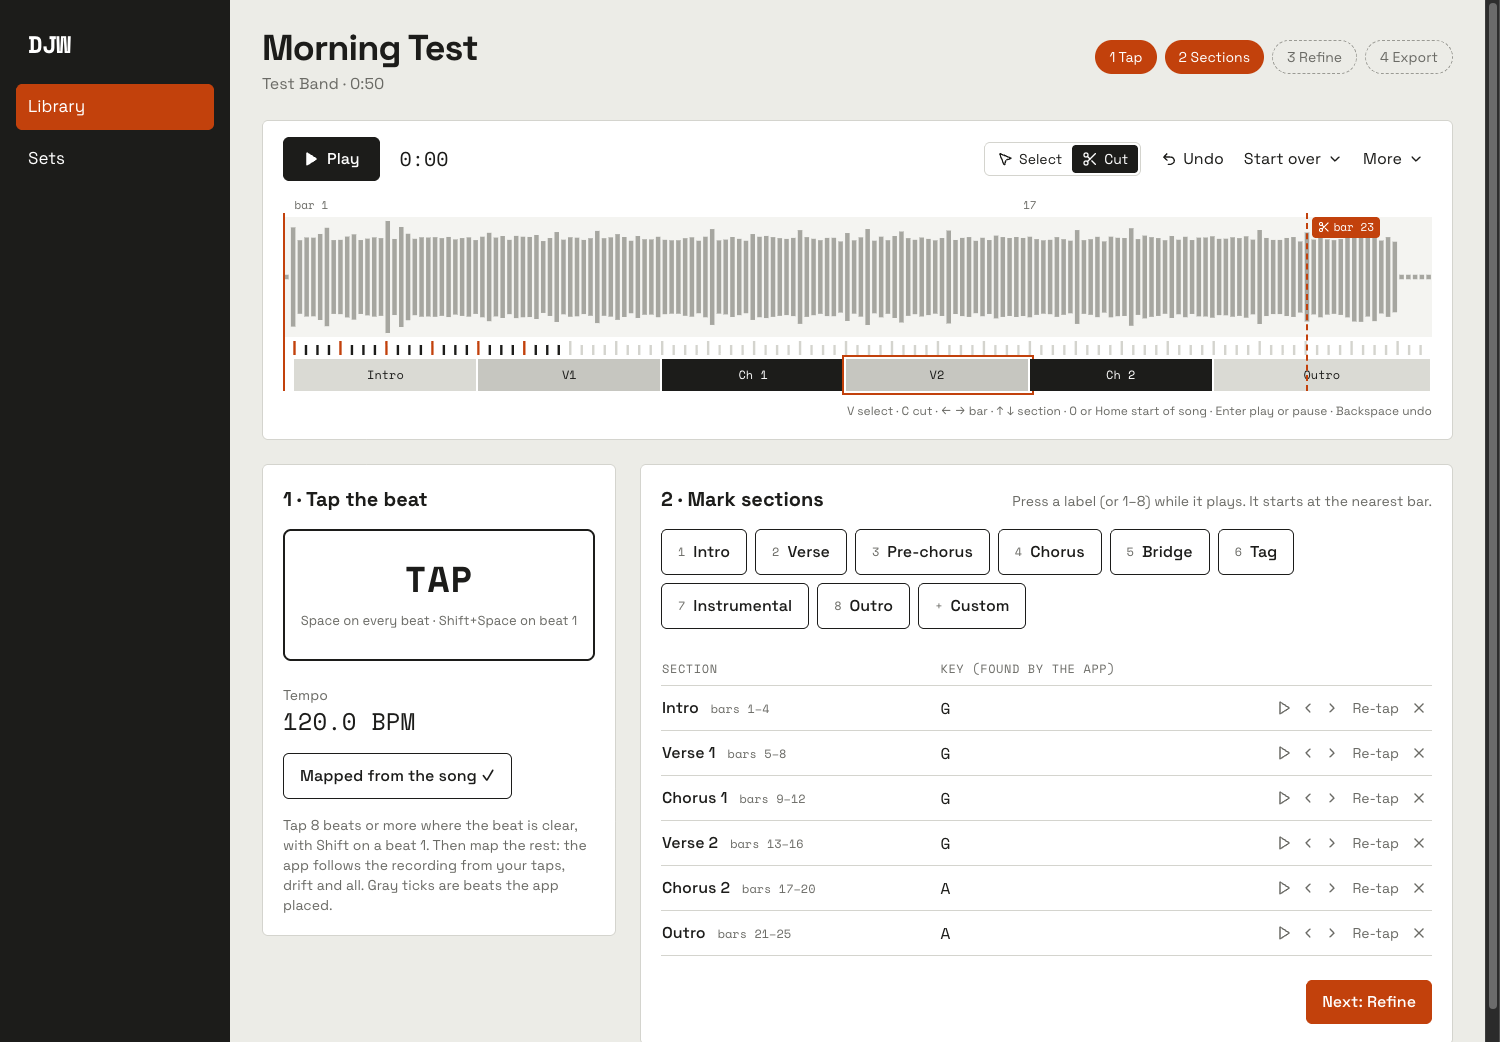
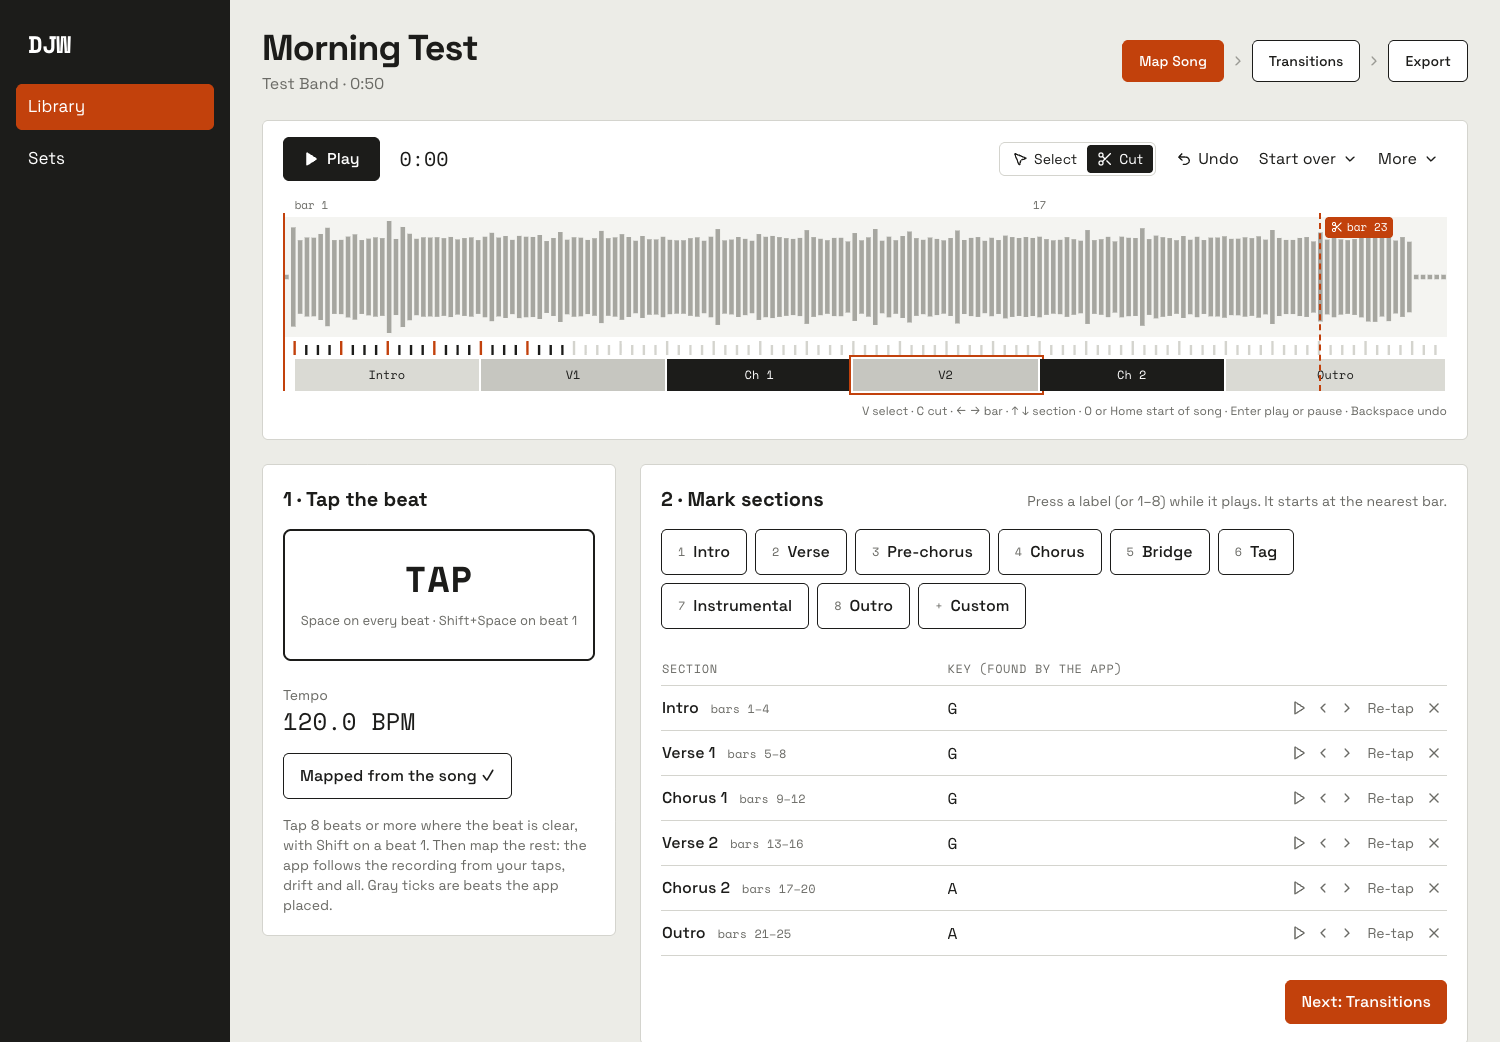
Rename the song steps to Map Song, Transitions and Export
Tap and Sections are one step now, "Map Song", and Refine is called
"Transitions" everywhere you read it; the routes keep their old names.
The step pills became buttons with arrows between them and a check on
the steps that are done. Library's section strip wraps onto more rows
for long songs instead of squeezing every section into one line.

diff --git a/src/ui.tsx b/src/ui.tsx
@@ -1,5 +1,5 @@
-import { useEffect, useRef, useState, type ButtonHTMLAttributes, type ReactNode } from 'react';
-import { ChevronDown } from 'lucide-react';
+import { Fragment, useEffect, useRef, useState, type ButtonHTMLAttributes, type ReactNode } from 'react';
+import { Check, ChevronDown, ChevronRight } from 'lucide-react';
 import type { Song } from './types';
 import { shadeOf, type SectionView, type Shade } from './lib/songMap';
 
@@ -126,16 +126,16 @@ export function shadeClass(view: SectionView): string {
   return SHADE[shadeOf(view.section.type)];
 }
 
-/** The small strip on Library: one block per section, sized by bars. */
+/** The small strip on Library: one block per section, sized by bars, wrapping onto more rows for long songs. */
 export function MiniStrip({ views }: { views: SectionView[] }) {
   if (views.length === 0) return <p className="text-sm text-muted">No sections yet.</p>;
   return (
-    <div className="flex h-7 gap-px" aria-label={`Sections: ${views.map(view => view.name).join(', ')}`}>
+    <div className="flex flex-wrap gap-x-px gap-y-1" aria-label={`Sections: ${views.map(view => view.name).join(', ')}`}>
       {views.map(view => (
         <div
           key={view.section.id}
-          className={`flex min-w-[1.25rem] items-center justify-center overflow-hidden font-mono text-[11px] ${shadeClass(view)}`}
-          style={{ flexGrow: view.e - view.s }}
+          className={`flex h-7 min-w-fit items-center justify-center px-1.5 font-mono text-[11px] ${shadeClass(view)}`}
+          style={{ width: `${(view.e - view.s) * 0.25}rem` }}
           title={view.name}
         >
           {view.short}
@@ -149,29 +149,27 @@ export type StepName = 'tap' | 'sections' | 'refine' | 'export';
 
 export function StepPills({ current, done, onStep }: { current: StepName[]; done: StepName[]; onStep: (step: StepName) => void }) {
   const steps: Array<[StepName, string]> = [
-    ['tap', '1 Tap'],
-    ['sections', '2 Sections'],
-    ['refine', '3 Refine'],
-    ['export', '4 Export'],
+    ['tap', 'Map Song'],
+    ['refine', 'Transitions'],
+    ['export', 'Export'],
   ];
   return (
-    <nav className="flex flex-wrap gap-2" aria-label="Steps">
-      {steps.map(([step, label]) => {
-        const style = current.includes(step)
-          ? 'bg-accent text-white'
-          : done.includes(step)
-            ? 'bg-ink text-white'
-            : 'border border-dashed border-faint text-muted hover:text-ink';
+    <nav className="flex flex-wrap items-center gap-1.5" aria-label="Steps">
+      {steps.map(([step, label], index) => {
+        const here = current.includes(step);
         return (
-          <button
-            key={step}
-            type="button"
-            aria-current={current.includes(step) ? 'step' : undefined}
-            className={`rounded-full px-3.5 py-1.5 text-sm ${style}`}
-            onClick={() => onStep(step)}
-          >
-            {label}
-          </button>
+          <Fragment key={step}>
+            {index > 0 && <ChevronRight className="h-4 w-4 text-faint" aria-hidden />}
+            <Button
+              tone={here ? 'primary' : 'outline'}
+              aria-current={here ? 'step' : undefined}
+              className={`px-3.5 py-2 text-sm ${here ? 'border border-transparent' : ''}`}
+              onClick={() => onStep(step)}
+            >
+              {done.includes(step) && !here && <Check className="h-4 w-4" role="img" aria-label="Done" />}
+              {label}
+            </Button>
+          </Fragment>
         );
       })}
     </nav>

diff --git a/scripts/e2e.ts b/scripts/e2e.ts
@@ -321,8 +321,8 @@ async function main() {
     await seek(28.3);
     await shot('2-tap-sections');
 
-    // Refine.
-    await click('Next: Refine');
+    // Transitions.
+    await click('Next: Transitions');
     await waitFor(`document.body.innerText.includes('Loop seam')`, 'refine screen');
     await clickAt(`[...document.querySelectorAll('[role=option]')].find(b => b.textContent.startsWith('Chorus 1'))`);
     await waitFor(`document.body.innerText.includes('Chorus 1 · bars 9–12')`, 'select Chorus 1');
@@ -431,7 +431,7 @@ async function main() {
     await click('More');
     await click('Run Chorus to the end');
     await waitFor(`document.body.innerText.includes('60.0 BPM')`, 'evening tempo 60 BPM');
-    await click('Next: Refine');
+    await click('Next: Transitions');
     await click('Next: Export .djw');
     await waitFor(`document.body.innerText.includes('Ready: all 4 checks pass')`, 'evening passes checks');
     const savedB = chrome.browser.once('Browser.downloadProgress', p => p.state === 'completed');
@@ -734,7 +734,7 @@ async function migrateFromV1() {
     await page.send('Page.navigate', { url: `http://localhost:${WEB}/#/sets` });
     await waitFor(`document.querySelector('input[aria-label="Set name"]')?.value === 'Set list' && document.body.innerText.includes('Old Song')`, 'the v1 set list becomes a set');
     await page.send('Page.navigate', { url: `http://localhost:${WEB}/#/song/v1song/refine` });
-    await waitFor(`document.body.innerText.includes('Chorus · bars 5–9') || [...document.querySelectorAll('[role=option]')].some(b => b.textContent.startsWith('Chorus'))`, 'its sections open in Refine');
+    await waitFor(`document.body.innerText.includes('Chorus · bars 5–9') || [...document.querySelectorAll('[role=option]')].some(b => b.textContent.startsWith('Chorus'))`, 'its sections open in Transitions');
     await page.send('Page.navigate', { url: `http://localhost:${WEB}/#/song/v1song/tap` });
     await waitFor(`Math.abs((__djw.engine.transport.buffer?.duration ?? 0) - 33.25) < 0.01`, 'its audio moved to the audio store and still plays');
   } catch (error) {

diff --git a/src/screens/SongTap.tsx b/src/screens/SongTap.tsx
@@ -43,8 +43,7 @@ export function stepNav(song: Song) {
 
 export function doneSteps(song: Song): StepName[] {
   return [
-    ...(song.taps.length >= 8 ? (['tap'] as const) : []),
-    ...(song.sections.length ? (['sections'] as const) : []),
+    ...(song.sections.length ? (['tap'] as const) : []),
     ...(song.refined ? (['refine'] as const) : []),
     ...(song.exportedAt ? (['export'] as const) : []),
   ];
@@ -422,7 +421,7 @@ export function SongTap({ song }: { song: Song }) {
           </table>
           <div className="mt-6 flex justify-end">
             <Button tone="primary" onClick={() => go({ page: 'song', id: song.id, step: 'refine' })} disabled={views.length === 0}>
-              Next: Refine
+              Next: Transitions
             </Button>
           </div>
         </Card>
@@ -530,7 +529,7 @@ function SectionInspector({ song, view, save, loaded, onRetap, onClose }: Edit &
             label={pickupBeats ? `${beatsLabel(pickupBeats)} early` : 'on the 1'}
             onChange={value => save(patched(song, view, { pickupBeats: value }))}
           />
-          <p className="mt-1.5 text-xs text-muted">Earlier for a sung pickup. The same setting as Fade in ends in Refine.</p>
+          <p className="mt-1.5 text-xs text-muted">Earlier for a sung pickup. The same setting as Fade in ends in Transitions.</p>
         </div>
         <span className="text-muted">Key</span>
         <div>

diff --git a/src/screens/Perform.tsx b/src/screens/Perform.tsx
@@ -27,7 +27,7 @@ const PAUSE_FADE = { out: 3, in: 2 };
 const JUMP_FADES: Array<[JumpFade, string, string]> = [
   ['out', 'Match the fade-out', 'The section you pick fades in where this one fades out.'],
   ['in', 'Match the fade-in', 'This section fades out where the one you pick fades in.'],
-  ['edited', 'As edited', 'Each section keeps the fades you set in Refine.'],
+  ['edited', 'As edited', 'Each section keeps the fades you set in Transitions.'],
 ];
 
 const option = (active: boolean) => `rounded-md border px-3.5 py-2.5 ${active ? 'border-stage-text bg-stage-text text-stage-bg' : 'border-stage-line hover:bg-stage-card'}`;

diff --git a/src/screens/Refine.tsx b/src/screens/Refine.tsx
@@ -40,9 +40,9 @@ export function Refine({ song }: { song: Song }) {
           <StepPills current={['refine']} done={doneSteps(song)} onStep={stepNav(song)} />
         </SongHeader>
         <Card className="p-6">
-          <p className="mb-4">Mark the sections first. Refine shapes each one.</p>
+          <p className="mb-4">Map the song first, then set how each section loops and fades.</p>
           <Button tone="primary" onClick={() => go({ page: 'song', id: song.id, step: 'tap' })}>
-            Mark sections
+            Map Song
           </Button>
         </Card>
       </div>

diff --git a/src/screens/Library.tsx b/src/screens/Library.tsx
@@ -180,7 +180,7 @@ export function Library() {
             <Label className="mb-2">Sections</Label>
             <MiniStrip views={sectionViews(selected)} />
             <Button className="mt-5 w-full" onClick={() => go({ page: 'song', id: selected.id, step: 'tap' })}>
-              Open in Tap &amp; section
+              Open in Map Song
             </Button>
           </Card>
         )}

diff --git a/src/lib/songMap.ts b/src/lib/songMap.ts
@@ -401,7 +401,7 @@ export function nextStep(song: Song, inSet: boolean): Step {
 export const STEP_LABEL: Record<Step, string> = {
   tap: 'Tap in',
   sections: 'Mark sections',
-  refine: 'Refine',
+  refine: 'Transitions',
   export: 'Export .djw',
   set: 'Add to set',
   done: 'Open set',
